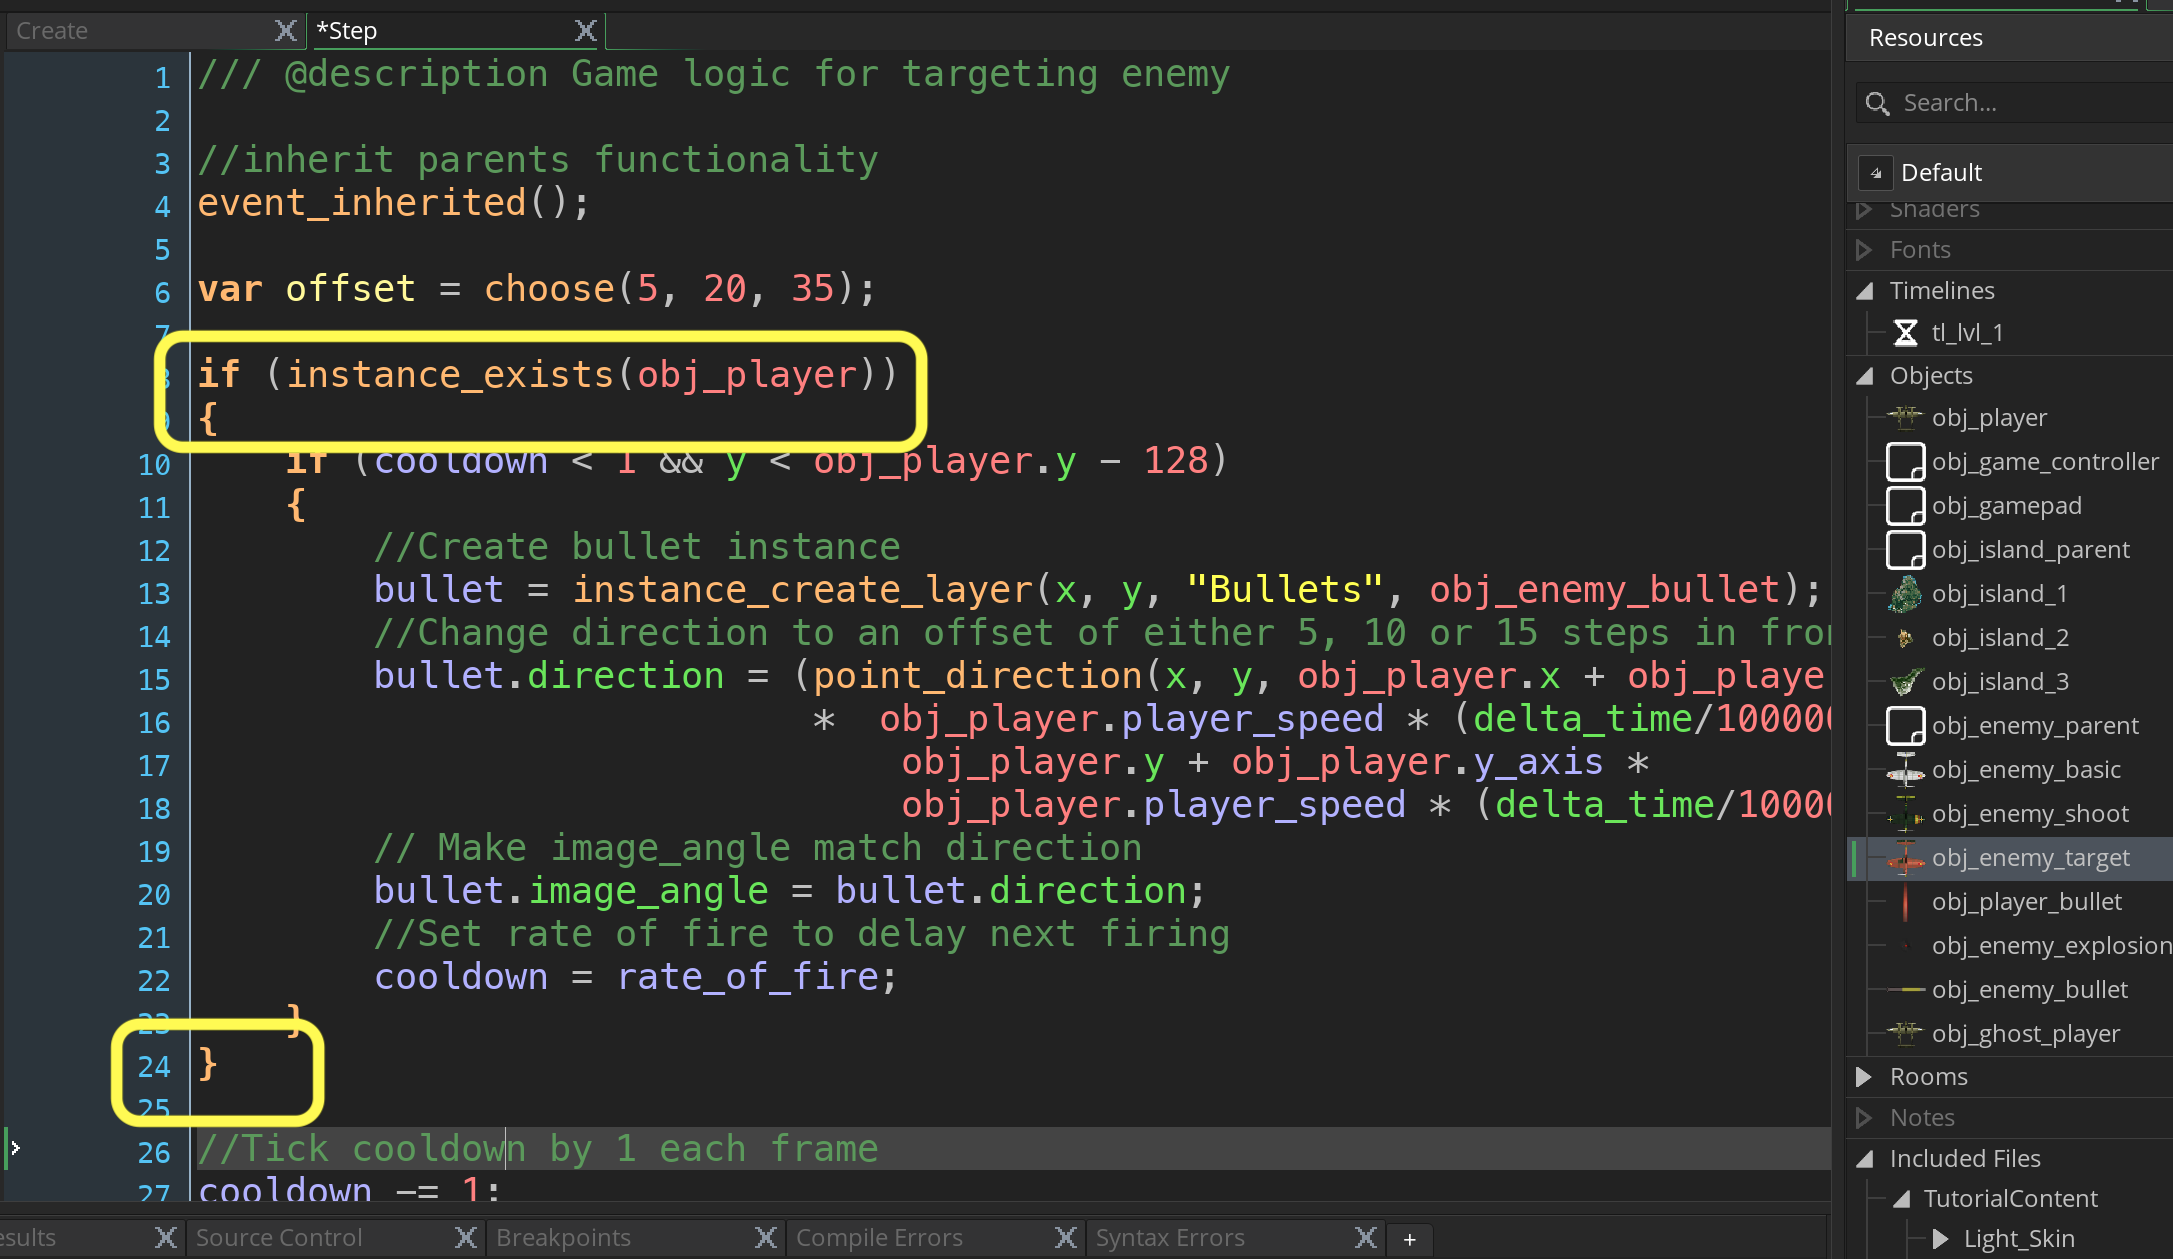
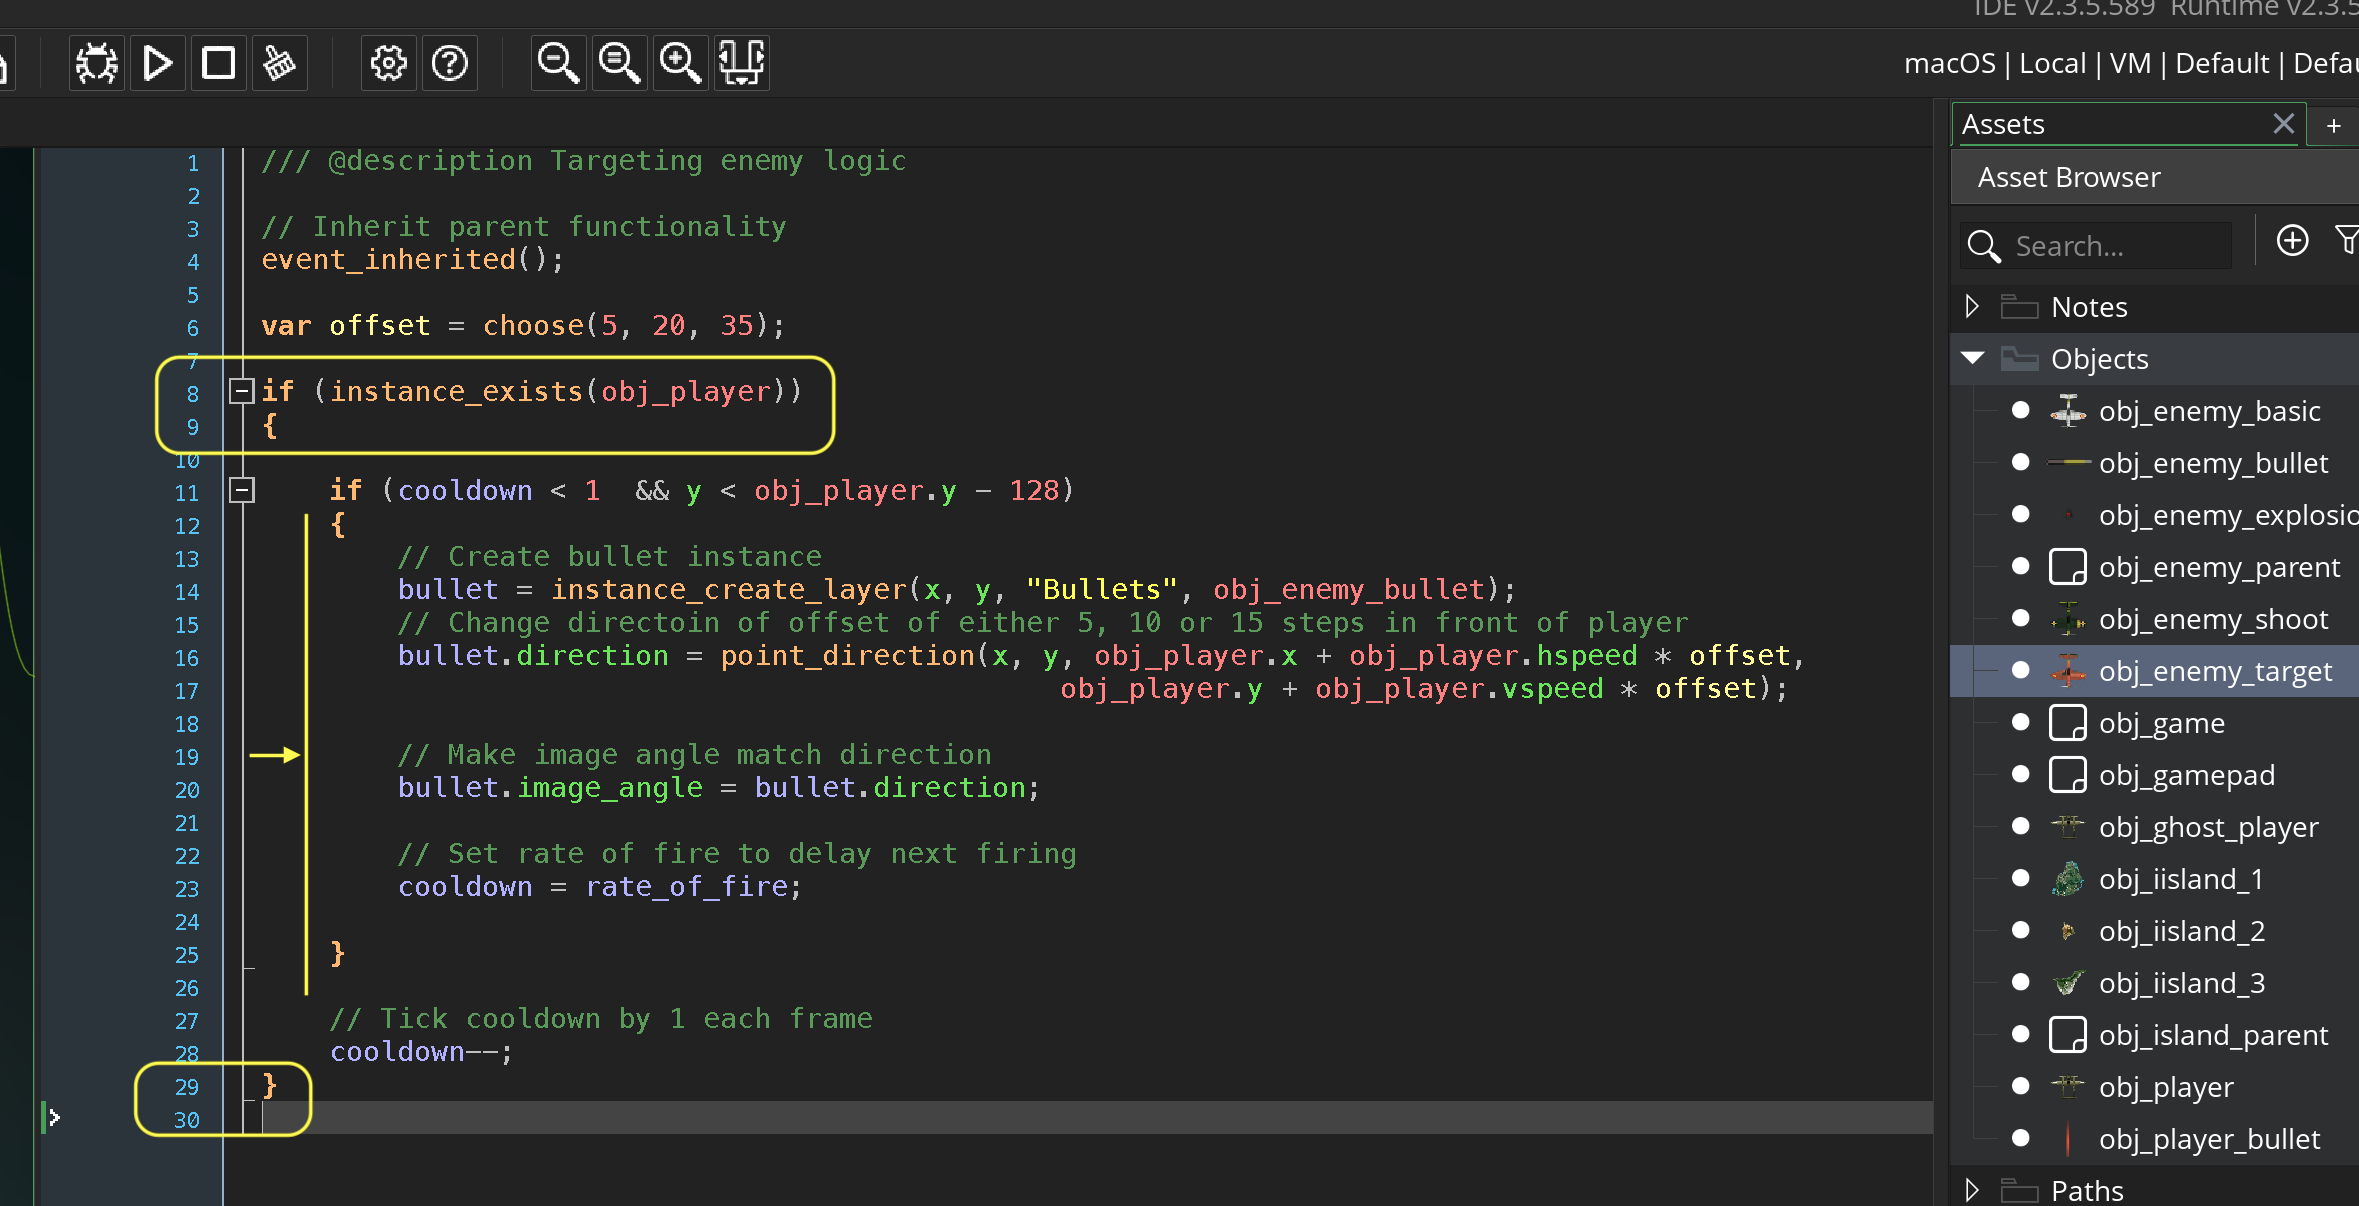
Update updating top down shooter

diff --git a/ghost-mode/README.md b/ghost-mode/README.md
@@ -76,7 +76,9 @@ Open **obj_enemy_target: Step** event and we need to check if the player exists 
 
 ##### `Step 7.`\|`SPCRK`| :small_orange_diamond: :small_blue_diamond: :small_blue_diamond:
 
-![alt_text](images/.png)
+Repeat for **obj_enemy_shoot: Step**  vent and we need to check if the player exists before firing a bullet.
+
+![In enemy shoot check that player exists before shooting](images/CheckIfPlayerExistsBeforeShootingAtItShoot.png)
 
 <img src="https://via.placeholder.com/500x2/45D7CA/45D7CA" alt="drawing" height="2px" alt = ""/>
 
